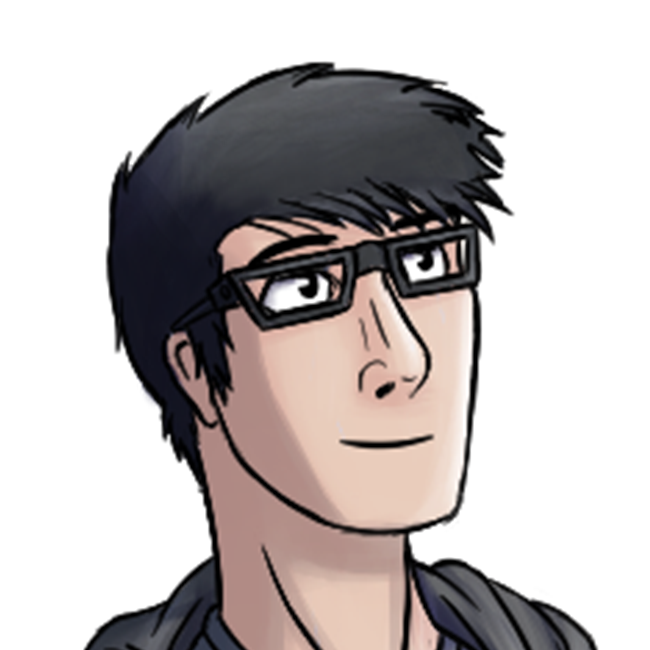
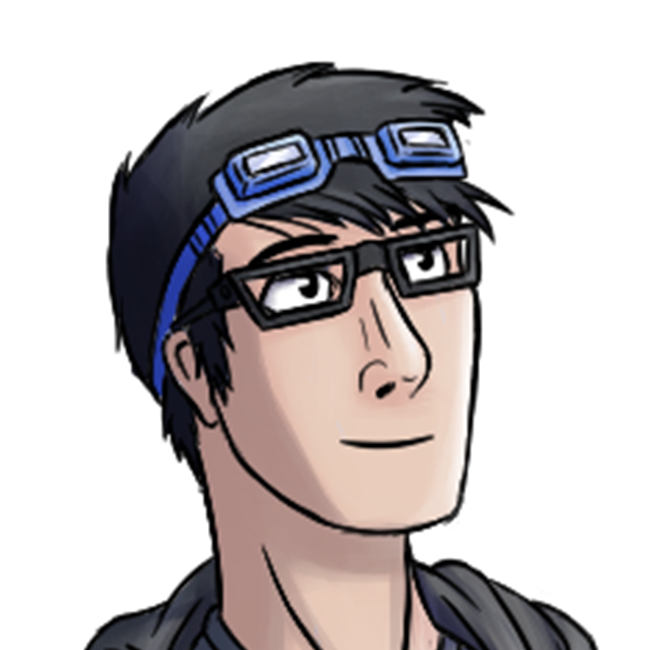
Add ghost state when track lost

diff --git a/face.js b/face.js
@@ -22,7 +22,9 @@ const imageFromFile = file => {
 
 const USE_TINY = true;
 const SCORE_MIN = 0.25;
-const AVATAR = imageFromFile(join(__dirname, 'test', 'head_t.png'));
+
+module.exports.AVATAR = imageFromFile(join(__dirname, 'avatar.png'));
+module.exports.AVATAR_GHOST = imageFromFile(join(__dirname, 'avatar_ghost.png'));
 
 const getTop = data => data
     .map((a) => a.y)
@@ -152,7 +154,7 @@ module.exports.plottedFace = (baseCanvas, detectionData) => {
 const DEFAULT_TRANSFORMS = {
     scale: 0.9,
     translate: { x: -25, y: 50 },
-    rotate: 0.15,
+    rotate: -0.15,
 };
 
 module.exports.transforms = (base, updated) => {
@@ -183,9 +185,9 @@ module.exports.transforms = (base, updated) => {
     }
 };
 
-module.exports.outputFace = (baseCanvas, faceTransforms, opacity) => {
+module.exports.outputFace = (baseCanvas, faceTransforms, faceImage, opacity) => {
     // Calculate base avatar scale
-    const defaultScale = (baseCanvas.height * DEFAULT_TRANSFORMS.scale) / AVATAR.height;
+    const defaultScale = (baseCanvas.height * DEFAULT_TRANSFORMS.scale) / faceImage.height;
 
     // Render the avatar
     const ctx = baseCanvas.getContext('2d');
@@ -198,9 +200,9 @@ module.exports.outputFace = (baseCanvas, faceTransforms, opacity) => {
     ctx.rotate(faceTransforms.rotate + DEFAULT_TRANSFORMS.rotate);
     ctx.scale(faceTransforms.scale * defaultScale * -1, faceTransforms.scale * defaultScale);
     ctx.drawImage(
-        AVATAR,
-        (-AVATAR.width / 2),
-        (-AVATAR.height / 2),
+        faceImage,
+        (-faceImage.width / 2),
+        (-faceImage.height / 2),
     )
     ctx.restore();
 

diff --git a/index.html b/index.html
@@ -13,7 +13,7 @@
 </head>
 <body>
 <script>
-    const { loadNets, processImage, plottedFace, transforms, outputFace } = require('./face');
+    const { AVATAR, AVATAR_GHOST, loadNets, processImage, plottedFace, transforms, outputFace } = require('./face');
 
     // Get the webcam feed to a shadow video elm
     const video = document.createElement('video');
@@ -41,6 +41,7 @@
         let latency = 0;
         let state = 'set-baseline';
         let baselineData;
+        let lastTransforms;
 
         // Listen for spacebar to trigger state
         window.addEventListener('keyup', event => {
@@ -88,7 +89,15 @@
             }
 
             // Render the avatar
-            outputFace(frame, detectionTransforms, state === 'set-baseline' ? 0.5 : 1);
+            outputFace(
+                frame,
+                detectionData.success ? detectionTransforms : lastTransforms,
+                detectionData.success ? AVATAR : AVATAR_GHOST,
+                state === 'set-baseline' ? 0.5 : (detectionData.success ? 1 : 0.75),
+            );
+
+            // Store the last transforms if successful
+            if (detectionData.success) lastTransforms = detectionTransforms;
 
             // Draw the detection data if looking for baseline
             if (state === 'set-baseline') plottedFace(frame, detectionData);
